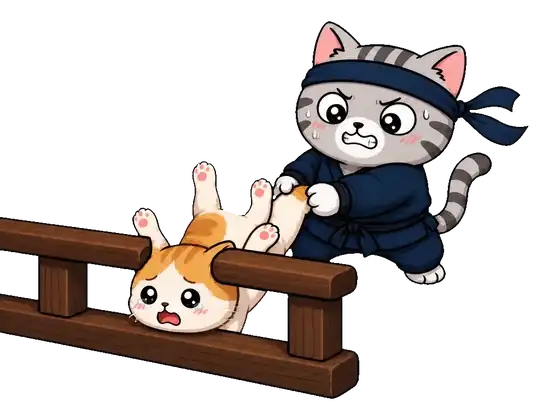
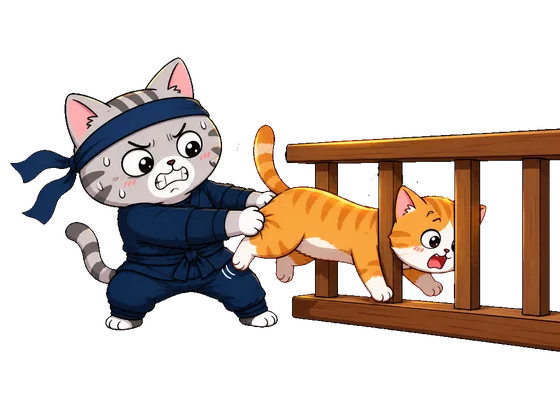
多段牌一下一下演（連環踢 5×3 不再只彈 −15）＋迴旋踢升級版 7×3＋小貓事件圖重畫
- 引擎：CombatState.hits 每段一筆（damageEnemy 記真的扣到血的量、被擋成 0 也記），每個玩家回合開始清空
- 畫面：攻擊牌（含丟擲忍具）同一隻 ≥2 段走 stageHits：每段 150 毫秒重掛挨打動畫、飄該段數字（左右錯開）、放音效；打倒那拍的溶解／煙／音效排在最後一段之後；收姿勢定時器等最後一段抖完
- 迴旋踢升級版：10 傷＋蜷縮 4 → 7×3＋蜷縮 4（使用者指定；強度壓過同池，待拍板）
- 小貓事件圖：Codex 重畫（雙參考＋明寫小貓側面水平四腳正常），去背裝進 public/assets/bg；舊圖備份 .舊姿勢
- 測試 tests/engine/fixes_0905c.test.ts 六條（含巨型飯糰打倒回血 10 不超上限）；牌池總表重生
- 唯讀稽核 docs/審查報告/程式稽核_2026-09-05夜_連環踢分段與迴旋踢.md：高 1 中 3 低 4，除迴旋踢強度（使用者拍板）外全修

diff --git a/src/ui/screens/combat.ts b/src/ui/screens/combat.ts
@@ -134,10 +134,11 @@ interface Snap {
   stealth: number;   // 音效要分辨「拿到隱身」與「拿到其他增益」
   enemies: Map<number, { hp: number; dead: boolean; phase: number; intent: Intent; label: string; turnCount: number; noAct: boolean; debuff: number; choke: number; block: number; stealth: number; buff: number; charged: boolean }>;
   logLen: number;
+  hitsLen: number;
 }
 function snap(cs: CombatState): Snap {
   return {
-    hp: cs.player.hp, block: cs.player.block, logLen: cs.log.length,
+    hp: cs.player.hp, block: cs.player.block, logLen: cs.log.length, hitsLen: cs.hits.length,
     buff: sumStatus(cs.player, GOOD_STATUS), debuff: sumStatus(cs.player, BAD_STATUS),
     growth: getStatus(cs.player, '爪力') + getStatus(cs.player, '貓步'),
     choke: getStatus(cs.player, '噎到'), stealth: getStatus(cs.player, '隱身'),
@@ -337,6 +338,25 @@ registerScreen('combat', (app, root, props) => {
     return sum;
   }
 
+  /** 多段攻擊一下一下演：每段隔 150 毫秒重掛一次挨打動畫、飄那一段的數字、放一聲。被擋成 0 的那段只閃不飄（「擋住 N」另外飄） */
+  function stageHits(node: HTMLElement, amounts: number[]): void {
+    amounts.forEach((amt, i) => {
+      window.setTimeout(() => {
+        if (app.cs !== cs || !node.isConnected) return;   // 這期間換了戰鬥或畫面重畫過了，節點已經不在舞台上
+        node.classList.remove('hit');
+        void node.offsetWidth;   // 強制重排，動畫才會從頭再播一次
+        node.classList.add('hit');
+        if (amt > 0) {
+          // 三個數字都落在同一點會糊成一團（稽核 2026-09-05 夜 中-1）：照序號左右錯開
+          const num = floatNum(`-${amt}`);
+          num.style.marginLeft = `${Math.round((i - (amounts.length - 1) / 2) * 28)}px`;
+          node.append(num);
+        }
+        burst(node, 'slash');
+        sfx(amt >= 12 ? 'hit_heavy' : 'claw', 0.94 + Math.random() * 0.12);
+      }, i * 150);
+    });
+  }
   function floatNum(text: string, cls = ''): HTMLElement {
     const node = el('div', { class: `num${cls ? ' ' + cls : ''}` }, text);
     node.addEventListener('animationend', () => node.remove());
@@ -1185,11 +1205,17 @@ registerScreen('combat', (app, root, props) => {
     if (!(opts.light && patchField(before))) render();
 
     // 畫完才把動畫類別與浮動數字掛到剛生出來的節點上
+    let stagedMax = 0;   // 本拍最多分幾段：收姿勢與倒下的演出都要排在最後一段之後
     for (const e of cs.enemies) {
       const b = before.enemies.get(e.uid);
       const node = root.querySelector<HTMLElement>(`.unit.enemy[data-uid="${e.uid}"]`);
       if (!b || !node) continue;
-      if (e.hp < b.hp) {
+      // 攻擊牌打出多段（連環踢 5×3）：照引擎記下來的每一段，一下一下演——原本只彈一個總數，
+      // 玩家看到的是「直接扣 15」而不是三下（使用者 2026-09-05）。丟擲類忍具也帶 attack（針雨 4×3 一樣分段）；
+      // 單段、反彈、噎到那些照舊走下面
+      const staged = opts.attack ? cs.hits.slice(before.hitsLen).filter((h) => h.uid === e.uid).map((h) => h.amount) : [];
+      if (e.hp < b.hp && staged.length > 1) { stageHits(node, staged); stagedMax = Math.max(stagedMax, staged.length); }
+      else if (e.hp < b.hp) {
         node.classList.add('hit');
         node.append(floatNum(`-${b.hp - e.hp}`));
         // 出攻擊牌打的放斬擊，其他來源（反彈、中毒、自傷）放撞擊火花：
@@ -1228,7 +1254,12 @@ registerScreen('combat', (app, root, props) => {
       if (sumStatus(e, BAD_STATUS) > b.debuff) burst(node, 'debuff');
       // 倒下的一團煙晚 160 毫秒放：讓最後那下的斬擊先看完，再看牠化成煙
       // 關主的白閃慢倒不放小怪化煙的煙與音效（調性不合，稽核 2026-09-04 低 22）
-      if (!b.dead && e.dead) { if (bossFallUids.has(e.uid)) { sfx('enemy_down'); } else { node.classList.add('dead'); burst(node, 'smoke', 160); sfx('enemy_down'); } }
+      // 分段演出時倒下要等最後一段打完再演，不然溶解跟煙會插在三段中間、最後那下的數字反而看不到（稽核 2026-09-05 夜 高-1）
+      if (!b.dead && e.dead) {
+        const after = staged.length > 1 ? (staged.length - 1) * 150 : 0;
+        const fall = (): void => { if (bossFallUids.has(e.uid)) { sfx('enemy_down'); } else { node.classList.add('dead'); burst(node, 'smoke', 160); sfx('enemy_down'); } };
+        if (after > 0) window.setTimeout(() => { if (app.cs === cs && node.isConnected) fall(); }, after); else fall();
+      }
       // 前撲跟著立繪一起換：兩邊都認同一張 `acting` 表，不會出現「圖換了卻沒動」或反過來
       else if (acting.get(e.uid)?.attacked) {
         node.classList.add('attack');
@@ -1321,7 +1352,8 @@ registerScreen('combat', (app, root, props) => {
     // 不然第三隻起會撲到一半被切回待機（稽核 2026-09-03）
     const stagger = Math.max(0, cs.enemies.length - 1) * 110;
     // 蜷縮本來停 1200：使用者 2026-09-03 晚「有點太長，有時候會拖到下一回合」→ 縮到 700，仍比一般姿勢多停一點
-    const hold = pose === POSE.curl ? 700 : Math.max(650, stagger + 560);
+    // 分段演出：最後一段在 (段數−1)×150 毫秒掛上、抖 400 毫秒，收姿勢要等它抖完（稽核 2026-09-05 夜 低-3）
+    const hold = pose === POSE.curl ? 700 : Math.max(650, stagger + 560, stagedMax > 1 ? (stagedMax - 1) * 150 + 460 : 0);
     const mine = ++seq;
     window.setTimeout(() => {
       if (seq !== mine || app.cs !== cs || ended || cs.phase !== 'player') return;

diff --git a/tests/engine/fixes_0905c.test.ts b/tests/engine/fixes_0905c.test.ts
@@ -1,0 +1,81 @@
+import { describe, expect, it } from 'vitest';
+
+import { STARTER_DECK, cardById } from '../../src/content/cards';
+import { damageEnemy } from '../../src/engine/actions';
+import { playCard, startCombat } from '../../src/engine/combat';
+import { Rng, seedFromString } from '../../src/engine/rng';
+import type { CombatState } from '../../src/engine/types';
+import { describeCard } from '../../src/ui/cardtext';
+import { inst } from '../helpers';
+
+/**
+ * 2026-09-05 晚使用者回報的三件：
+ * 1. 連環踢「造成 5 點傷害，連打 3 次」畫面卻只彈一個 −15——引擎要把每一段留下來（`cs.hits`），畫面才拆得成三下。
+ * 2. 迴旋踢升級版改成 7 點 ×3（蜷縮 4 照舊）。
+ * 3. 打贏巨型飯糰有沒有回血：`onDeathHealPlayer: 10`，這裡釘住它真的會回、而且不超過上限。
+ * 對手一律木樁人（不出手），數字才好算。
+ */
+function start(extra: [string, boolean][], encounterId = 'wood_dummy', hp = 80): CombatState {
+  const deck = [...STARTER_DECK.map((id, i) => inst(id, i + 1)), ...extra.map(([id, up], i) => inst(id, 100 + i, up))];
+  const cs = startCombat({ hp, maxHp: hp, deck, relics: [], potions: [], encounterId, rng: new Rng(seedFromString('fixes-0905c')) });
+  cs.player.energy = 9;
+  return cs;
+}
+function toHand(cs: CombatState, uid: number): void {
+  for (const pile of [cs.player.hand, cs.player.drawPile, cs.player.discardPile]) {
+    const i = pile.findIndex((c) => c.uid === uid);
+    if (i >= 0) { const [c] = pile.splice(i, 1); cs.player.hand.unshift(c!); return; }
+  }
+  throw new Error('找不到牌 ' + uid);
+}
+
+describe('多段傷害每一段都留下紀錄（畫面拆成一下一下演）', () => {
+  it('連環踢 5×3 對 7 點防禦：三段各記 0、3、5', () => {
+    const cs = start([['lianhuan', false]]); toHand(cs, 100);
+    const e = cs.enemies[0]!; e.block = 7;
+    const hp0 = e.hp;
+    playCard(cs, 100, e.uid);
+    const mine = cs.hits.filter((h) => h.uid === e.uid).map((h) => h.amount);
+    expect(mine).toEqual([0, 3, 5]);
+    expect(hp0 - e.hp).toBe(8);
+  });
+  it('第二段就打倒：只記兩段，不再打第三下', () => {
+    const cs = start([['lianhuan', false]]); toHand(cs, 100);
+    const e = cs.enemies[0]!; e.hp = 7;
+    playCard(cs, 100, e.uid);
+    expect(cs.hits.filter((h) => h.uid === e.uid).map((h) => h.amount)).toEqual([5, 2]);
+    expect(e.dead).toBe(true);
+  });
+  it('單段牌只記一段', () => {
+    const cs = start([['sanjo', false]]); toHand(cs, 100);   // 指名一張貓抓，不靠起手牌組順序
+    const e = cs.enemies[0]!;
+    playCard(cs, 100, e.uid);
+    expect(cs.hits.filter((h) => h.uid === e.uid)).toHaveLength(1);
+  });
+});
+
+describe('迴旋踢升級版：7 點 ×3、蜷縮 4', () => {
+  it('效果表', () => {
+    expect(cardById['huixuan']!.upgrade!.effects).toEqual([{ kind: 'damage', amount: 7, times: 3 }, { kind: 'block', amount: 4 }]);
+    expect(describeCard(cardById['huixuan']!, true)).toContain('造成 7 點傷害，連打 3 次');
+  });
+  it('實打木樁人：掉 21 血、球球得 4 蜷縮', () => {
+    const cs = start([['huixuan', true]]); toHand(cs, 100);
+    const e = cs.enemies[0]!; const hp0 = e.hp;
+    playCard(cs, 100, e.uid);
+    expect(hp0 - e.hp).toBe(21);
+    expect(cs.player.block).toBe(4);
+  });
+});
+
+describe('巨型飯糰：打倒回血 10', () => {
+  it('40/70 打倒後 50；65/70 只補到 70', () => {
+    let cs = start([], 'giant_onigiri', 70); cs.player.hp = 40;
+    damageEnemy(cs, cs.enemies[0]!, 9999);
+    expect(cs.enemies[0]!.dead).toBe(true);
+    expect(cs.player.hp).toBe(50);
+    cs = start([], 'giant_onigiri', 70); cs.player.hp = 65;
+    damageEnemy(cs, cs.enemies[0]!, 9999);
+    expect(cs.player.hp).toBe(70);
+  });
+});

diff --git a/src/engine/combat.ts b/src/engine/combat.ts
@@ -32,7 +32,7 @@ export function startCombat(input: {
   };
   const cs: CombatState = {
     rng: input.rng, player, enemies: [], relics: [...input.relics], potions: [...input.potions],
-    turn: 0, phase: 'player', pending: null, log: [], encounterId: input.encounterId, endTurnRequested: false,
+    turn: 0, phase: 'player', pending: null, log: [], hits: [], encounterId: input.encounterId, endTurnRequested: false,
     stolenFish: 0, fishDelta: 0, kills: 0, cardsPlayed: 0, nextEnemyUid: 1,
     // 魔物塞牌用的編號從牌組最大編號 +1 起跳，不會跟原本的牌撞號
     nextCardUid: input.deck.reduce((m, c) => Math.max(m, c.uid), 0) + 1,
@@ -66,6 +66,7 @@ export function startPlayerTurn(cs: CombatState): void {
   if (cs.phase !== 'player') return;
   const p = cs.player;
   cs.turn += 1;
+  cs.hits.length = 0;   // 分段演出只看這一拍新增的幾筆，上一回合的不用留著（稽核 2026-09-05 夜 低-1）
   // 蜷縮不在這裡清：回合結束、魔物打完才照守護符留量修剪（見 endTurn 尾端）——
   // 以前在這裡歸零，開戰拿到的蜷縮（斗笠、鐵項圈、龜甲、暖毯）從來沒生效過（審查 #1）
   p.freshDebuffs = {};   // 先清，這樣回合開始的能力若自己疊減益也算「本回合拿到的」

diff --git a/src/content/cards.ts b/src/content/cards.ts
@@ -284,7 +284,7 @@ export const cards: readonly CardDef[] = [
   // 2026-09-04 牌池體檢補牌（使用者拍板：忍術攻擊 4、絕學常見 3、解減益 1、噎到流 4；hidden：牌面到齊後由 art_cards_0904b.sh 拿掉）
   { id: 'huixuan', name: '忍術·迴旋踢', cost: 1, type: 攻, rarity: '常見', pool: '忍術', target: 'enemy', art: 'card/huixuan',
     effects: [{ kind: 'damage', amount: 7 }, { kind: 'block', amount: 3 }],
-    upgrade: { effects: [{ kind: 'damage', amount: 10 }, { kind: 'block', amount: 4 }] } },
+    upgrade: { effects: [{ kind: 'damage', amount: 7, times: 3 }, { kind: 'block', amount: 4 }] } },   // 升級版 10→7×3（使用者 2026-09-05）
   { id: 'lianhuan', name: '忍術·連環踢', cost: 2, type: 攻, rarity: '常見', pool: '忍術', target: 'enemy', art: 'card/lianhuan',
     effects: [{ kind: 'damage', amount: 5, times: 3 }],
     upgrade: { effects: [{ kind: 'damage', amount: 6, times: 3 }] } },

diff --git a/src/engine/types.ts b/src/engine/types.ts
@@ -510,6 +510,9 @@ export interface CombatState {
   cardPlays?: Record<number, number>;
   pending: PendingChoice | null;
   log: string[];
+  /** 這一場打在魔物身上的每一段傷害（依發生順序；amount 是真的扣到血的量，被防禦全吃掉就是 0）。
+   *  畫面靠它把「5 點 ×3」拆成三下演，不用再從總掉血倒推（使用者 2026-09-05：連環踢看起來像一下扣 15） */
+  hits: { uid: number; amount: number }[];
   encounterId: string;
   /**
    * 牌效果要求結束回合（撒手鐧、先睡了）。以前是效果裡直接呼叫 endTurn，

diff --git a/src/engine/actions.ts b/src/engine/actions.ts
@@ -244,6 +244,7 @@ export function damageEnemy(cs: CombatState, e: EnemyCombat, base: number,
     log(cs, `${e.name}半透明的，這一下只碰到 1 點`);
     lose = 1;
   }
+  cs.hits.push({ uid: e.uid, amount: Math.min(lose, e.hp) });   // 每一段各記一筆（含被擋成 0 的）、只記真的扣到血的量，畫面拆多段用
   e.hp = Math.max(0, e.hp - lose);
   if (lose > 0) {
     // 打痛牠才會發生的四件事。擺在扣血之後、判死之前：被一擊打死的當然不用醒也不用縮。

diff --git a/docs/審查報告/程式稽核_2026-09-05夜_連環踢分段與迴旋踢.md b/docs/審查報告/程式稽核_2026-09-05夜_連環踢分段與迴旋踢.md
@@ -1,0 +1,156 @@
+# 程式稽核：連環踢分段演出與迴旋踢升級版（2026-09-05 夜）
+
+獨立審查代理，唯讀。審查對象＝工作樹相對 `HEAD`（`819572f`）的未提交差異，加上未追蹤的新檔 `tests/engine/fixes_0905c.test.ts`。二進位圖檔 `public/assets/bg/event_stuck_kitten.webp` 依指示略過。
+
+驗證動作（都在乾淨工作樹上跑，跑完 `git status` 與跑之前一致，沒有因為稽核動到任何檔案）：
+
+- `npx vitest run` → 76 個測試檔、474 條測試全過。
+- `npx tsc --noEmit` → 無錯誤。
+- `git grep -n "hits" src tests` → 24 筆逐一看過（其中 `smartbot.ts`、`dialogue.ts`、`cards.test.ts`、`relics.test.ts` 的 `hits` 是同名區域變數，與這次改動無關）。
+- 實際打開核對 14 處檔案內容（不是只看差異描述），清單見最後一節。
+
+結論：**引擎層通過，畫面層有三條要修（一高兩中），內容層有一條平衡風險要使用者裁決。**
+
+| 等級 | 條數 |
+|---|---|
+| 高 | 1 |
+| 中 | 3 |
+| 低 | 4 |
+
+---
+
+## 高
+
+### 高-1 打倒魔物那一拍，溶解動畫與死亡煙霧插在分段中間，最後一段的數字幾乎看不到
+
+- `src/ui/screens/combat.ts:1210`（`stageHits` 把三段排在第 0／150／300 毫秒）
+- `src/ui/screens/combat.ts:1250`（同一輪迴圈裡**同步**掛 `.dead`、`burst(node,'smoke',160)`、放 `enemy_down`）
+- `src/ui/styles/combat.css:557` — `.combat .unit.dead { animation: dissolve .8s ease-in forwards; }`，`@keyframes dissolve`（`combat.css:608-612`）是透明度歸零＋灰階＋模糊 6 像素＋下沉。
+
+時間軸攤開來看，三段打倒一隻小怪會變成：
+
+| 時間 | 發生什麼 |
+|---|---|
+| 0 毫秒 | 第一段的抖動＋數字；**同一瞬間魔物開始溶解** |
+| 160 毫秒 | 死亡的那團煙 |
+| 150／300 毫秒 | 第二、三段的抖動＋數字（掛在正在溶解的節點上） |
+| 800 毫秒 | 節點透明度歸零，第三段那個數字的飄字才走了 500／1100 |
+
+兩個問題疊在一起：一是原本 `combat.ts:1249` 的註解白紙黑字寫「倒下的一團煙晚 160 毫秒放：讓最後那下的斬擊先看完」，現在最後那下在 300 毫秒，順序反過來了；二是收尾那一下的傷害數字掛上去的時候，父節點已經在褪色、轉灰、糊掉，玩家最想看清楚的一下反而最看不清楚。三段以上的牌（連環踢、沾衣十八跌、十二連環、迴旋踢升級版）打出致命一擊是很常見的情形。
+
+補充：關主倒下走的是 `bossFallUids` 那條（白閃慢倒），不掛 `.dead`，所以這條只影響一般魔物。
+
+修法：`e.dead` 時把 `.dead`、煙、`enemy_down` 三樣一起延後 `(staged.length - 1) * 150 + 160` 毫秒再放；或是打倒那一拍把段距壓到 90 毫秒，讓死亡演出仍排在最後一段之後。
+
+---
+
+## 中
+
+### 中-1 三個傷害數字疊在同一個座標，看起來像一團糊掉的字
+
+- `src/ui/screens/combat.ts:349`（`node.append(floatNum(\`-${amt}\`))`，沒有帶任何位置變化）
+- `src/ui/styles/combat.css:558-572` — `.combat .num { left: 50%; top: 28%; font-size: 40px }`，只有 `.num.blocked`（`combat.css:792`）與 `.num.thorn`（`combat.css:795`）另外調過樣式與位置，一般傷害數字全部落在同一點。
+
+照 `@keyframes float`（`combat.css:617-623`）與 1.1 秒的長度換算，間隔 150 毫秒的兩個數字在穩定期只差約 8 個像素，字級卻是 40 像素——重疊約七成，而且比較晚出現的那個還在 1.45 倍放大階段。迴旋踢升級版三段都是 `-7`，畫面上會像一個在抖的 `-7`，不像三個。
+
+抖動、斬擊、音效這三樣確實分開了，所以比原本的單一 `-21` 好；但「數字要看得出三下」這件事只做到一半，離使用者原本的抱怨（「看起來像一下扣 15」）還有距離。
+
+修法：段距 150 → 260 毫秒（三段共 520 毫秒，仍在 650 毫秒的收姿勢時間內），或給每段一個小的水平位移（照序號設 `--dx: -18px / 0 / 18px` 之類）。
+
+### 中-2 迴旋踢升級版 1 費 21 傷＋蜷縮 4，壓過整個牌池
+
+- `src/content/cards.ts:287`
+
+同池對照（全部是升級後的數字）：
+
+| 牌 | 費 | 稀有度 | 單體傷害 | 附加 |
+|---|---|---|---|---|
+| **迴旋踢＋** | **1** | **常見** | **7×3 ＝ 21** | **蜷縮 4** |
+| 連環踢＋（`cards.ts:290`） | 2 | 常見 | 6×3 ＝ 18 | — |
+| 沾衣十八跌＋（`cards.ts:225`） | 2 | 常見 | 6×3 ＝ 18 | — |
+| 崩拳＋（`cards.ts:308`） | 2 | 常見 | 16 | — |
+| 鐵頭功＋（`cards.ts:134`） | 2 | 罕見 | 20 | 自傷 2 |
+| 撒手鐧＋（`cards.ts:205`） | 2 | 罕見 | 16 | 直接結束回合 |
+| **九尾拳＋（`cards.ts:328`）** | **3** | **稀有** | **15** | 爪力 2 |
+| 肉球連擊＋（`cards.ts:170`） | 1 | 常見 | 5×2 ＝ 10 | — |
+| 貓抓＋（`cards.ts:10`） | 1 | 常見 | 9 | — |
+
+一張 1 費常見牌的單體傷害排到全池第二，只輸給 0 費消耗牌亡命（26 傷／自傷 6，`cards.ts:253`），而且還多送 4 點蜷縮。3 費稀有的九尾拳只有 15 傷，被它多打 6 點。
+
+更麻煩的是爪力：`computeAttack`（`src/engine/statuses.ts:30-35`）是**每一段各加一次爪力**，而 `src/engine/effects.ts:36-39` 的多段迴圈是逐段呼叫 `damageEnemy`。爪力 5 的時候迴旋踢升級版＝(7+5)×3＝36 傷（1 費），崩拳升級才 21 傷（2 費）。爪力流會直接把這張常見牌當核心。
+
+這是使用者指定的數字、不是實作錯誤；但「明顯壓過同池」這件事成立，建議先讓使用者知道再拍板。選項：(a) 5×3 ＝ 15 傷＋蜷縮 4；(b) 升級後改 2 費；(c) 維持 7×3 但拿掉蜷縮。
+
+附帶一句：`docs/審查報告/平衡下一輪_2026-09-05.md` 那份 4000 局的基準表是在這張牌改動前量的，改完等於失效，下一輪平衡要重跑。
+
+### 中-3 針雨也會走分段，跟交付說明寫的「藥水維持彈一個總數」對不起來
+
+- `src/ui/screens/combat.ts:90`（`THROW_POTIONS = new Set(['shuriken','needle_rain'])`）
+- `src/ui/screens/combat.ts:941` 與 `src/ui/screens/combat.ts:1014`（這兩件忍具帶 `attack: true`）
+- `src/content/potions.ts:19`（針雨＝`{ kind:'damage', amount:4, times:3 }`）
+
+`combat.ts:1209` 的判斷用的是 `opts.attack`，而丟擲類忍具為了擺出丟東西的姿勢也帶了 `attack: true`，所以針雨會跟著走 `stageHits`。手裡劍是單段，落到舊路徑，沒差。
+
+實際行為其實比交付說明更好（針雨牌面本來就寫「打 3 次」），所以建議改的是說明而不是程式。若真要照需求書辦，判斷條件要換成「這一拍打的是攻擊牌」，不能跟丟擲姿勢共用同一個旗標。
+
+---
+
+## 低
+
+### 低-1 `cs.hits` 整場只加不清
+
+- `src/engine/types.ts:515`、`src/engine/actions.ts:247`
+
+畫面靠 `slice(before.hitsLen)` 取窗口，功能是對的；但這個陣列整場沒有上限也沒人回頭用舊資料，一場二十幾回合的關主戰（龍貓那種）會累積幾百筆。建議在 `startTurn` 清空、或每次 `act()` 之前歸零，`hitsLen` 跟著回零就好。
+
+### 低-2 分段動畫少了 `app.cs === cs` 這道保險
+
+- `src/ui/screens/combat.ts:344-345`
+
+這支只檢查 `node.isConnected`。這一版是安全的（換畫面會 `clear(root)`，節點就 detach 了），但這個檔案裡其他所有延遲回呼都額外檢查 `app.cs === cs`（例如 `combat.ts:1126`、`:1372`、`:1395`）。照著補一行比較保險，也比較一致。
+
+### 低-3 最後一段的抖動會被 650 毫秒的收姿勢定時器切掉
+
+- `src/ui/screens/combat.ts:1344-1356`（`hold` 最少 650 毫秒，時間到就 `classList.remove('attack','hit','dodge','cast')`）
+- `src/ui/styles/combat.css:551-554`（`.unit.hit .sprite { animation: shake .4s }`）
+
+三段時最後一次 `.hit` 是 300 毫秒掛上去的，抖動要到 700 毫秒才跑完，650 毫秒就被拆掉——差 50 毫秒，看得出來的機率不高。但如果之後出現四段以上的牌，或中-1 把段距拉長到 260 毫秒（最後一段落在 520 毫秒、要跑到 920 毫秒），這個切斷就會變明顯，`hold` 要一起算進去。
+
+### 低-4 需求第 1 項（畫面）完全沒有測試，且測試有一處靠起手牌組順序
+
+- `tests/engine/fixes_0905c.test.ts` 只釘引擎的 `cs.hits`；`combat.ts:1209-1210` 那個分岔（`opts.attack && staged.length > 1`）沒有任何測試。這個倉庫本來就沒有畫面測試，不算破例，但這次要修的東西正是畫面，至少可以把「哪些情況該走分段」抽成一支純函式來釘。
+- `tests/engine/fixes_0905c.test.ts:50-54` 的「單段牌只記一段」靠 `toHand(cs, 1)`＋註解「起手第一張＝貓抓」，實際成立是因為 `STARTER_DECK[0]` 剛好是 `'sanjo'`（`src/content/cards.ts:343-344`）。起手牌組順序一改，這條會靜靜失去意義（不會紅，只是不再測到攻擊牌）。建議直接把一張指名的單段攻擊牌塞進 `extra`。
+
+---
+
+## 查過確認沒問題的
+
+1. **`cs.hits` 沒有漏初始化的建構路徑。** 全倉庫只有一處建 `CombatState` 物件字面值：`src/engine/combat.ts:33-40`，已加 `hits: []`。`src/engine/bot.ts:13` 的 `playCombat` 與 `src/engine/smartbot.ts` 全程吃現成的 `cs`，不自己建；`tests/helpers.ts` 只造 `Unit`／`PlayerCombat`／`CardInstance`，沒有 `CombatState`。`grep "CombatState = {|as CombatState|<CombatState>"` 在 `src`、`tests`、`tools` 三處只回兩筆，另一筆是 `src/ui/screens/combat.ts:170` 的 `const cs: CombatState = app.cs`（讀取，不是建構）。
+
+2. **存讀檔沒有風險。** `src/engine/save.ts` 從頭到尾只序列化 `RunState`（`saveRun` 是 `JSON.stringify(run)`），而 `RunState`（`src/engine/types.ts:377` 起）沒有任何戰鬥狀態欄位——`save.ts` 裡連 `CombatState` 這個字都沒出現。所以不存在「舊存檔載回來 `hits` 是 undefined、一打就當掉」這條路。`src/ui/app.ts:222` 的 `this.cs = beginCombat(...)` 一律走 `src/engine/run.ts:85` 的 `startCombat`。
+
+3. **`damageEnemy` 三個提早 `return` 的分支不記錄，是對的。** 無敵／調息（`src/engine/actions.ts:209`）、僕從護體（`:211-215`）、隱身閃過（`:226`）三種情形魔物血量都沒動，畫面那邊 `e.hp < b.hp` 本來就不成立，兩邊一致，不會出現「引擎記了一筆但畫面演不出來」或反過來。隱身那條另外由 `combat.ts:1239-1241` 飄「閃過！」，沒被動到。
+
+4. **`Math.min(lose, e.hp)` 的位置與邊界正確。** `actions.ts:247` 夾在虛化封頂（`:241-244`）之後、扣血（`:248`）之前，所以記到的是真的進到血條的量。虛化每段封頂 1、飛行先減半再扣防禦（`:227`）、`ignoreBlock` 走 `lose = dmg`（`:229`）——這三條都在記錄之前跑完。打倒時記剩餘血量：`Math.min` 夾住，測試 `fixes_0905c.test.ts:43-48`（血量 7、連環踢 5×3）釘出 `[5, 2]` 而不是 `[5, 5]`。防禦邊界：`:36-41` 用 7 點防禦釘出 `[0, 3, 5]`、總掉血 8。兩條都不是恆真的斷言。
+
+5. **uid 不會對錯隻。** `makeEnemy`（`src/engine/actions.ts:333`）一律 `uid: cs.nextEnemyUid++`，單調遞增、不回收；分裂（`actions.ts:305-323`）與召喚（`actions.ts:396` 附近的 `summon`）都走它，所以分裂出來的小怪拿到的是新號碼，`before.enemies` 找不到它就直接 `continue`（`combat.ts:1207`）。同生共死的「暫時倒下」是同一個物件、uid 不變，復活（`src/engine/combat.ts:216`）也不換號——同一隻的紀錄仍然對到同一隻。而且畫面每次 `settle` 只取 `slice(before.hitsLen)` 這個窗口，跨拍的舊紀錄不會混進來。
+
+6. **多段迴圈與擊倒的收尾一致。** `src/engine/effects.ts:30-42`：外層跑目標、內層跑 `times`，打倒就 `break`（`:38`），所以不會多記一筆「打在屍體上的 0」。`target: 'all'` 的多段牌（十二連環、手裏劍亂舞、聚葉成刀）是一隻打完三段才換下一隻，但畫面 `filter(h => h.uid === e.uid)` 各自過濾、各自從 0 毫秒起跑，同時演，沒有錯位。
+
+7. **全被擋掉那一拍不會走錯路。** `opts.attack` 為真但總掉血 0 時 `e.hp < b.hp` 不成立，兩條分岔都跳過，照舊由 `combat.ts:1229-1234` 飄「擋住 N」＋盾牌光＋`blocked` 音效——沒有少飄、也沒有多飄。部分被擋（例如 `[0,3,5]`）走分段：第一段只抖不飄數字，「擋住 7」在第 0 毫秒另外飄，跟註解寫的規格一致。
+
+8. **分段的定時器在畫面切換後不會亂噴。** `combat.ts:345` 的 `node.isConnected` 擋在所有副作用（加類別、飄字、特效、音效）之前。`render()`（`:784`）會 `clear(root)`、`patchField()`（`:749`）對有變動的單位 `replaceWith`，兩種都讓舊節點 detach，後面的段就靜靜跳過。打贏交棒是 1300／2400 毫秒後（`:1372`），比三段的 300 毫秒晚很多，正常情況不會被砍。
+
+9. **`hurtSet` 與姿勢判定沒被改壞。** `combat.ts:1188-1198` 那段跟改動前一字不差，`hurtSet` 仍只看 `e.hp < b.hp`（`:1193`），用途在 `:534` 挑受傷立繪；球球那邊的姿勢優先序（`:1179-1186`）也沒動。
+
+10. **TypeScript 沒有漏洞。** `Snap` 只有 `snap()` 一處建（`combat.ts:139-148`），`hitsLen` 有給（`:141`）；`grep "hitsLen"` 全倉庫只有 `:137` 宣告與 `:141` 賦值兩筆，加上 `:1209` 的讀取。`npx tsc --noEmit` 乾淨退出。
+
+11. **魔物身上不會混進雜訊紀錄。** 魔物的噎到是在敵方回合結算的（`src/engine/combat.ts:304`），那一拍 `opts.attack` 是 false，走舊路徑，不會跟攻擊牌的分段混在一起。全倉庫扣魔物血只有 `actions.ts:248` 一處（其餘 `.hp =` 分別是回血 `:389`、換血條 `:276`、召喚吸血 `:412`、復活 `combat.ts:216`，都是加或重設），所以不存在「掉血了卻沒有對應的 hits 紀錄」導致 `staged` 是空的、演出漏掉的情形。
+
+12. **反彈與虛化的互動正確。** 魔物身上的反彈（`actions.ts:238-240`）打的是球球、不會多記魔物的 hits；多段牌打刺蝟師傅會被刺三次，這是既有規則的自然結果，不是這次改壞的。虛化魔物吃 5×3 會記成 `[1,1,1]`，畫面演三下各飄 `-1`——比原本一個 `-3` 清楚。
+
+13. **牌面文字正確。** `src/ui/cardtext.ts:100-103` 對 `times > 1` 產「，連打 N 次」；`docs/牌池總表.json` 那一列的 `up` 是「造成 7 點傷害，連打 3 次，獲得 4 點蜷縮。」，跟 `describeCard` 對得起來（測試 `fixes_0905c.test.ts:59` 有釘 `toContain('造成 7 點傷害，連打 3 次')`）。非升級版的 `text` 沒動，正確。
+
+14. **`docs/牌池總表.json` 的變動確實只有迴旋踢那一列。** `git diff --stat` 顯示該檔 1 增 1 刪。這個檔由 `tools/dump_cards.test.ts:9` 自動重生；我跑完整套 `npx vitest run`（會重跑那支倒檔測試）之後 `git status --short` 與跑之前完全一致，代表重生結果穩定、沒有夾帶其他變動。`tools/out/cardvalue.json` 那份「牌費量表」資料未納入版本控制，不影響這次提交。
+
+15. **測試釘得住行為，不是恆真。** 五條斷言逐一看過：多段紀錄兩條（防禦 `[0,3,5]`、擊倒 `[5,2]`）、單段一條、迴旋踢兩條（效果表＋牌面文字、實打 21 傷與蜷縮 4）、巨型飯糰兩點（40→50、65→70 不超上限）。把 `actions.ts:247` 那行刪掉會紅，把 `Math.min` 拿掉會紅，把 `cards.ts:287` 改回 10 會紅——都會失敗，不是背書用的空測試。
